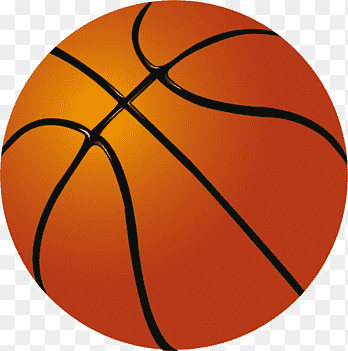
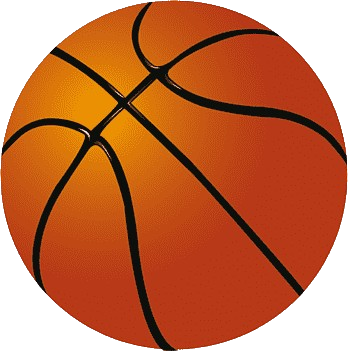
update game, remove ball bg

diff --git a/main.py b/main.py
@@ -4,8 +4,9 @@ from settings import (
     SCREEN_HEIGHT,
     SCREEN_WIDTH,
     WHITE,
+    BLACK,
     FPS,
-)  # Всё нужное импортируем из настроек
+)
 from player import Player
 from levels_reader import LevelReader
 from level1 import LevelOne
@@ -17,54 +18,149 @@ pygame.init()
 screen = pygame.display.set_mode((SCREEN_WIDTH, SCREEN_HEIGHT))
 pygame.display.set_caption("Python Geometry Dash Clone")
 clock = pygame.time.Clock()
-lvl = LevelOne()
 
 # Переменные мира
 floor_y = SCREEN_HEIGHT - 50
 game_speed = 10
+FINISH_LINE = 3000  # Координата финиша (увеличил)
 
-# Создаем объекты персонажа и менеджера уровней
-player = Player(x=100, floor_y=floor_y)
-level = LevelReader(lvl, floor_y=floor_y)  # Класс сам создаст шипы внутри себя!
+def draw_menu():
+    """Отрисовка меню"""
+    screen.fill(BLACK)
+    font_title = pygame.font.SysFont(None, 72)
+    font_text = pygame.font.SysFont(None, 36)
+    
+    title = font_title.render("GEOMETRY DASH", True, WHITE)
+    start_text = font_text.render("SPACE - Начать / Перезапустить", True, WHITE)
+    hint = font_text.render("Зажимай SPACE чтобы прыгать непрерывно!", True, WHITE)
+    
+    screen.blit(title, (SCREEN_WIDTH // 2 - title.get_width() // 2, 100))
+    screen.blit(start_text, (SCREEN_WIDTH // 2 - start_text.get_width() // 2, 250))
+    screen.blit(hint, (SCREEN_WIDTH // 2 - hint.get_width() // 2, 320))
+    
+    pygame.display.flip()
+
+def draw_game_over(final_score):
+    """Отрисовка экрана проигрыша"""
+    font = pygame.font.SysFont(None, 72)
+    font_small = pygame.font.SysFont(None, 36)
+    
+    game_over_text = font.render("GAME OVER!", True, (255, 50, 50))
+    score_text = font_small.render(f"Счет: {final_score}", True, WHITE)
+    restart_text = font_small.render("SPACE - Начать заново", True, WHITE)
+    
+    screen.blit(game_over_text, (SCREEN_WIDTH // 2 - game_over_text.get_width() // 2, 150))
+    screen.blit(score_text, (SCREEN_WIDTH // 2 - score_text.get_width() // 2, 250))
+    screen.blit(restart_text, (SCREEN_WIDTH // 2 - restart_text.get_width() // 2, 350))
+    
+    pygame.display.flip()
+
+def draw_victory(final_score):
+    """Отрисовка экрана победы"""
+    font = pygame.font.SysFont(None, 72)
+    font_small = pygame.font.SysFont(None, 36)
+    
+    victory_text = font.render("ПОБЕДА!", True, (50, 255, 50))
+    score_text = font_small.render(f"Финальный счет: {final_score}", True, WHITE)
+    restart_text = font_small.render("SPACE - Играть снова", True, WHITE)
+    
+    screen.blit(victory_text, (SCREEN_WIDTH // 2 - victory_text.get_width() // 2, 150))
+    screen.blit(score_text, (SCREEN_WIDTH // 2 - score_text.get_width() // 2, 250))
+    screen.blit(restart_text, (SCREEN_WIDTH // 2 - restart_text.get_width() // 2, 350))
+    
+    pygame.display.flip()
+
+def reset_game():
+    """Сброс игры"""
+    lvl = LevelOne()
+    player = Player(x=100, floor_y=floor_y)
+    level = LevelReader(lvl, floor_y=floor_y)
+    return player, level, lvl
+
+# Инициализация игры
+player, level, lvl = reset_game()
+game_state = "menu"  # "menu", "playing", "game_over", "victory"
+space_pressed = False
 
 # Главный цикл игры
 running = True
 while running:
     clock.tick(FPS)
-    lvl.update()
-    lvl.draw_background(screen)
-
-    # 1. Обработка событий
-    for event in pygame.event.get():
-        if event.type == pygame.QUIT:
-            running = False
-
-        is_space_pressed = event.type == pygame.KEYDOWN and event.key == pygame.K_SPACE
-        is_mouse_clicked = event.type == pygame.MOUSEBUTTONDOWN and event.button == 1
-
-        if is_mouse_clicked or is_space_pressed:
-            player.jump()  # Безопасно вызываем метод прыжка из класса Player
-
-    # 2. Физика и обновление позиций
-    player.update(game_speed)
-    level.update(game_speed)  # Уровень сам двигает свои шипы
-
-    # 3. Проверка коллизий через класс уровня
-    player_rect = player.get_rect()
-    if level.check_collisions(player_rect, player, game_speed):
-        print(f"Game Over! Final Score: {level.score}")
-        running = False  # Столкнулись с шипом -> проиграли
-
-    # 4. Отрисовка графики
-    level.draw(screen)  # Сначала рисуем пол и шипы уровня
-    player.draw(screen)  # Поверх рисуем крутящийся шарик
-
-    # Отображение счета (берем его из объекта уровня)
-    font = pygame.font.SysFont(None, 36)
-    score_text = font.render(f"Score: {level.score}", True, WHITE)
-    screen.blit(score_text, (10, 10))
-
-    pygame.display.flip()
+    
+    if game_state == "menu":
+        draw_menu()
+        for event in pygame.event.get():
+            if event.type == pygame.QUIT:
+                running = False
+            if event.type == pygame.KEYDOWN and event.key == pygame.K_SPACE:
+                game_state = "playing"
+                space_pressed = False
+                
+    elif game_state == "playing":
+        lvl.update()
+        lvl.draw_background(screen)
+        
+        # Обработка событий
+        for event in pygame.event.get():
+            if event.type == pygame.QUIT:
+                running = False
+            
+            # НАЖАТИЕ кнопки Space
+            if event.type == pygame.KEYDOWN and event.key == pygame.K_SPACE:
+                space_pressed = True
+                player.jump()
+            
+            # ОТПУСКАНИЕ кнопки Space
+            if event.type == pygame.KEYUP and event.key == pygame.K_SPACE:
+                space_pressed = False
+            
+            # Клик мыши (альтернатива)
+            if event.type == pygame.MOUSEBUTTONDOWN and event.button == 1:
+                player.jump()
+        
+        # Физика и обновление
+        player.update(game_speed, space_held=space_pressed)
+        level.update(game_speed)
+        
+        # Проверка коллизий
+        player_rect = player.get_rect()
+        if level.check_collisions(player_rect, player, game_speed, space_held=space_pressed):
+            game_state = "game_over"
+        
+        # Проверка победы (достижение финиша)
+        if level.world_offset >= FINISH_LINE:
+            game_state = "victory"
+        
+        # Отрисовка игры
+        level.draw(screen)
+        player.draw(screen)
+        
+        # Отображение UI
+        font = pygame.font.SysFont(None, 36)
+        score_text = font.render(f"Счет: {level.score}", True, WHITE)
+        screen.blit(score_text, (10, 10))
+        
+        pygame.display.flip()
+        
+    elif game_state == "game_over":
+        draw_game_over(level.score)
+        for event in pygame.event.get():
+            if event.type == pygame.QUIT:
+                running = False
+            if event.type == pygame.KEYDOWN and event.key == pygame.K_SPACE:
+                player, level, lvl = reset_game()
+                game_state = "menu"
+                space_pressed = False
+                
+    elif game_state == "victory":
+        draw_victory(level.score)
+        for event in pygame.event.get():
+            if event.type == pygame.QUIT:
+                running = False
+            if event.type == pygame.KEYDOWN and event.key == pygame.K_SPACE:
+                player, level, lvl = reset_game()
+                game_state = "menu"
+                space_pressed = False
 
 pygame.quit()
 sys.exit()

diff --git a/player.py b/player.py
@@ -12,18 +12,24 @@ class Player:
         self.gravity = 1
         self.jump_strength = -16
         self.is_jumping = False
+        self.can_jump = True
         self.angle = 0
+        self.on_platform = False
+        self.was_in_air = False  # Флаг для отслеживания приземления
+        self.just_landed = False  # Флаг для защиты от дребезга
         
         # Загрузка текстуры
         self.texture = pygame.image.load("basket_ball.png").convert_alpha()
         self.texture = pygame.transform.scale(self.texture, (self.size, self.size))
 
     def jump(self):
-        if not self.is_jumping:
+        """Прыгает"""
+        if self.can_jump:
             self.vel_y = self.jump_strength
             self.is_jumping = True
+            self.can_jump = False
 
-    def update(self, game_speed):
+    def update(self, game_speed, space_held=False):
         # Гравитация
         self.vel_y += self.gravity
         self.y += self.vel_y
@@ -33,6 +39,18 @@ class Player:
             self.y = self.floor_y - self.size
             self.vel_y = 0
             self.is_jumping = False
+            self.can_jump = True
+            
+            # Если пробел зажат И мы были в воздухе И не только что приземлились
+            if space_held and self.was_in_air and not self.just_landed:
+                self.jump()
+                self.just_landed = True
+            
+            self.was_in_air = False
+        else:
+            # Мы в воздухе
+            self.was_in_air = True
+            self.just_landed = False
 
         # Вращение
         if not self.is_jumping:

diff --git a/levels_reader.py b/levels_reader.py
@@ -5,6 +5,7 @@ class LevelReader:
     def __init__(self, lvl, floor_y):
         self.floor_y = floor_y
         self.score = 0
+        self.world_offset = 0  # Отслеживание прогресса уровня
         
         self.obstacles = []       # Список Rect для обычных шипов
         self.ceil_obstacles = []  # Список Rect для перевернутых шипов
@@ -31,6 +32,10 @@ class LevelReader:
 
     def update(self, game_speed):
         """Двигает абсолютно все типы объектов влево"""
+        # Увеличиваем счетчик прогресса
+        self.world_offset += game_speed
+        self.score += game_speed  # Счет зависит от прогресса
+        
         # Движение обычных шипов
         for spike in self.obstacles:
             spike.x -= game_speed
@@ -46,7 +51,7 @@ class LevelReader:
             plat.x -= game_speed
         self.platforms = [p for p in self.platforms if p.right > 0]
 
-    def check_collisions(self, player_rect, player, game_speed):
+    def check_collisions(self, player_rect, player, game_speed, space_held=False):
         """Проверяет столкновения со всеми объектами на разной высоте"""
         
         # 1. Смерть от обычных шипов
@@ -71,7 +76,16 @@ class LevelReader:
                         player.y = plat.top - player.size  # Ставим строго на крышу
                         player.vel_y = 0
                         player.is_jumping = False
+                        player.can_jump = True
                         player.on_platform = True
+                        
+                        # Если пробел зажат И мы были в воздухе И не только что приземлились
+                        if space_held and player.was_in_air and not player.just_landed:
+                            player.jump()
+                            player.just_landed = True
+                        
+                        player.was_in_air = False
+                        
                         # Обновляем хитбокс игрока под новую безопасную координату Y
                         player_rect.y = player.y
 

diff --git a/level1.py b/level1.py
@@ -9,8 +9,8 @@ class LevelOne:
             "   M        M          M                 M       MMMMM             ",  # Шипы на потолке
             "                                                                   ",
             "                                                                   ",
-            "                     PPPPPP          PPPPPP                        ",  # Верхний ярус платформ
-            "                       MM              MM                          ",  # Шипы НА платформах
+            "                       PPPPPP        PPPPPP                        ",  # Верхний ярус платформ
+            "                         MM            MM                          ",  # Шипы НА платформах
             "                                                                   ",
             "               PPPP                                                ",  # Нижний ярус платформ
             "                MM                                                 ",